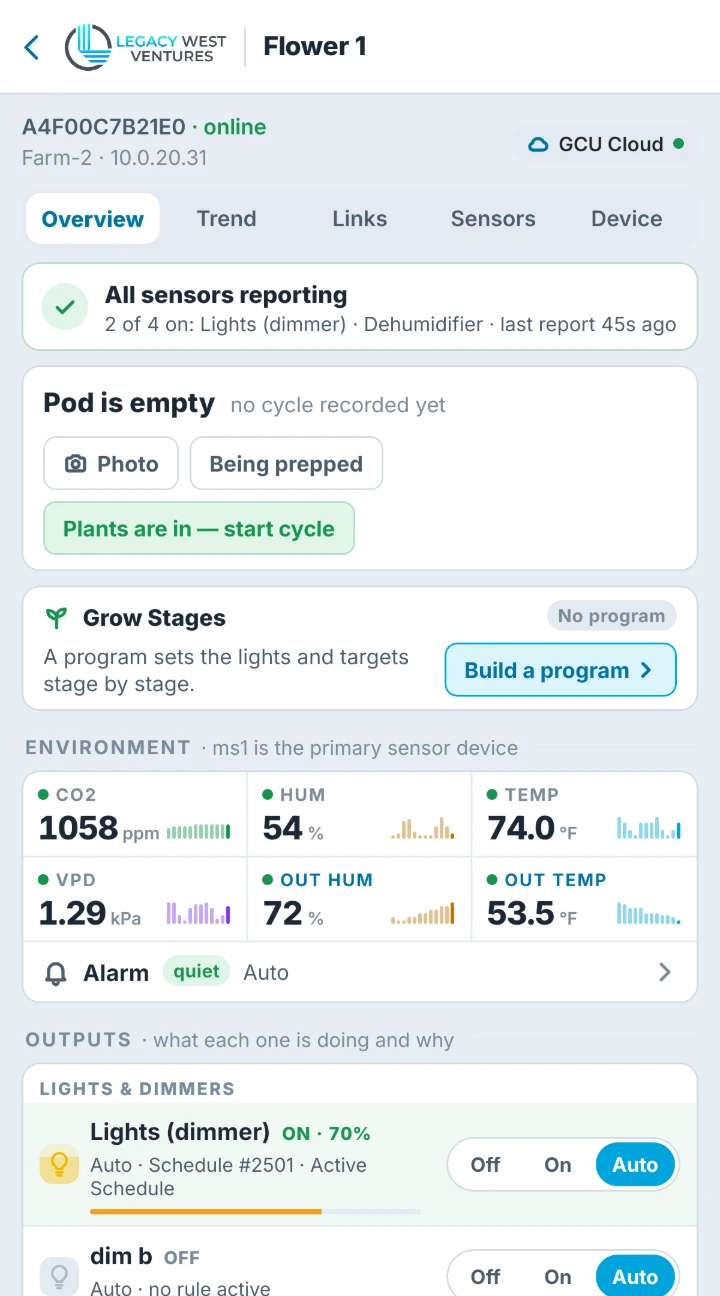
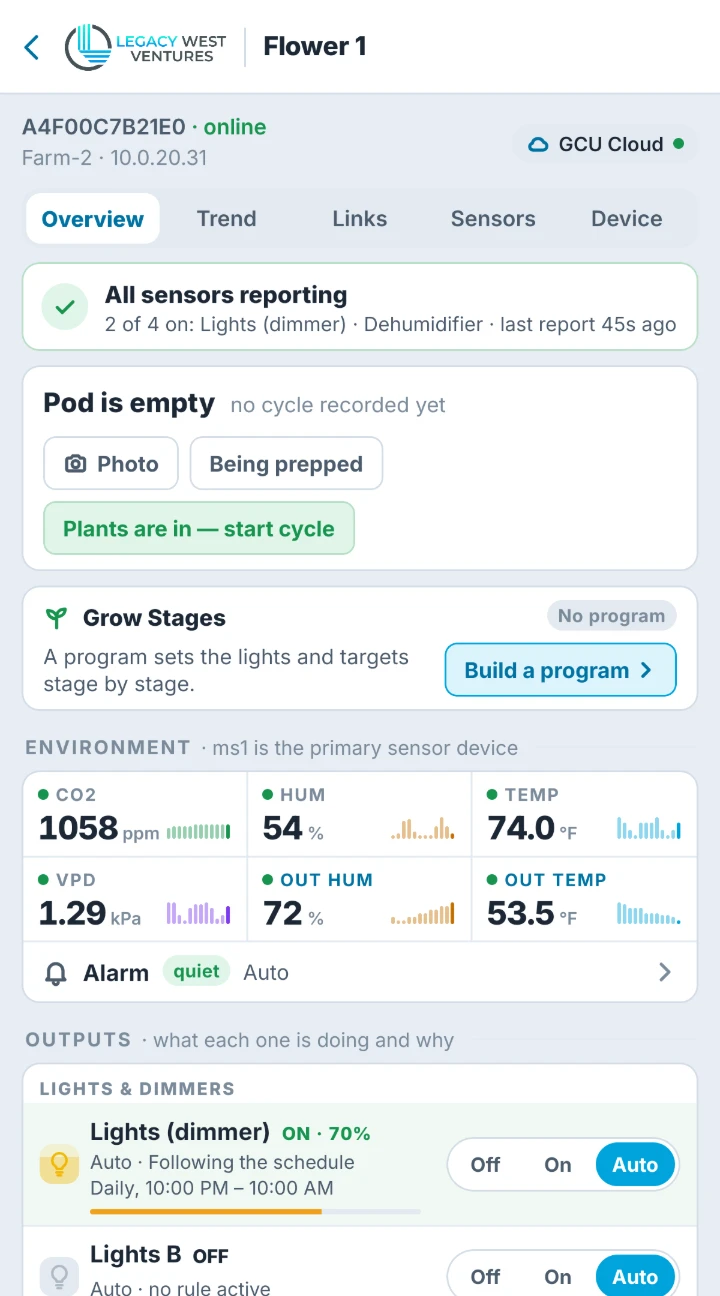
Tell the story: GCU pages lead with why the platform is different; output names in the app screens
GCU Cloud: tagline, a hero that says what it does, a six-point 'why' section and sharper captions.
Platform and home pages: 'run themselves, and show their work'. App screens: friendly output names
(Lights B, Fans, Flasher, Siren), no raw variable codes or rule ids.

Changed region(s): [[0.1222, 0.8951, 0.5194, 0.9259], [0.1222, 0.9568, 0.3056, 0.9877]]

diff --git a/solutions/gcu-cloud.html b/solutions/gcu-cloud.html
@@ -2,14 +2,14 @@
 <html lang="en">
 <head>
 <meta charset="utf-8">
-<title>GCU Cloud — Grow Room Monitoring and Control from Anywhere — Legacy West Ventures</title>
+<title>GCU Cloud — Every Grow Room, Every Reading, Every Reason — Legacy West Ventures</title>
 <meta name="viewport" content="width=device-width, initial-scale=1">
-<meta name="description" content="GCU Cloud connects to every Greenhouse Control Unit so you can watch, adjust and keep records for your grow rooms from a phone or computer. Grow programs, email alerts, crop photos and nightly AI Insights, hosted by Legacy West Ventures.">
+<meta name="description" content="GCU Cloud shows every grow room you run, live: the air, the equipment and the reason behind every change. Control from your phone with confirmation from the room, grow programs, crop records, alerts and nightly AI Insights. Built and hosted by Legacy West Ventures.">
 <link rel="canonical" href="https://www.legacywestventures.com/solutions/gcu-cloud.html">
 <meta property="og:type" content="website">
 <meta property="og:site_name" content="Legacy West Ventures">
-<meta property="og:title" content="GCU Cloud — Grow Room Monitoring and Control from Anywhere">
-<meta property="og:description" content="Watch, adjust and keep records for your grow rooms from a phone or computer. Grow programs, email alerts, crop photos and nightly AI Insights.">
+<meta property="og:title" content="GCU Cloud — Every Grow Room, Every Reading, Every Reason">
+<meta property="og:description" content="See every grow room you run, live, with the reason behind every change. Control from your phone, confirmed by the room. Grow programs, crop records and nightly AI Insights.">
 <meta property="og:url" content="https://www.legacywestventures.com/solutions/gcu-cloud.html">
 <meta property="og:image" content="https://www.legacywestventures.com/images/og-image.png">
 <meta name="twitter:card" content="summary_large_image">
@@ -25,6 +25,9 @@
   .hero-solution { background: linear-gradient(100deg, rgba(12,74,110,.95) 0%, rgba(3,105,161,.8) 55%, rgba(12,74,110,.55) 100%), url(../images/grow/lettuce-led-bar.jpg) center/cover no-repeat; color: #fff; padding: 88px 0; }
   .hero-solution .kicker { color: #bae6fd; }
   .hero-solution h1 { font-size: 48px; line-height: 1.1; margin: 0 0 20px; }
+  .hero-solution .tagline { font-size: 26px; font-weight: 800; line-height: 1.25; color: #bae6fd; margin: 0 0 18px; }
+  .hero-solution .tagline span { white-space: nowrap; }
+  @media(max-width:620px) { .hero-solution h1 { font-size: 40px; } .hero-solution .tagline { font-size: 24px; } }
   .hero-solution .lead { font-size: 20px; color: rgba(255,255,255,0.88); max-width: 640px; }
   .hero-solution .btn.ghost { color: #fff; border-color: rgba(255,255,255,0.4); }
   .hero-grid { display: grid; grid-template-columns: 1.2fr 1fr; gap: 48px; align-items: center; }
@@ -64,6 +67,11 @@
   .feature-card .icon { font-size: 24px; }
   .feature-card ul { margin: 0; padding-left: 18px; color: var(--muted); font-size: 14px; }
   .feature-card ul li { margin-bottom: 6px; }
+  .feature-card p { margin: 0; color: var(--muted); font-size: 15px; }
+  .why-lead { max-width: 720px; font-size: 18px; }
+  .why-grid { display: grid; grid-template-columns: repeat(3, 1fr); gap: 20px; margin-top: 32px; }
+  @media(max-width:900px) { .why-grid { grid-template-columns: repeat(2, 1fr); } }
+  @media(max-width:620px) { .why-grid { grid-template-columns: 1fr; } }
   .callout { background: #fffbeb; border: 1px solid #fcd34d; border-radius: 16px; padding: 24px 28px; margin-top: 32px; }
   .callout h3 { margin: 0 0 8px; color: #92400e; }
   .callout p { margin: 0; color: #78350f; }
@@ -105,8 +113,9 @@
       <div>
         <span class="kicker">Cloud Solution · GCU Platform</span>
         <h1>GCU Cloud</h1>
-        <p class="lead">Where you watch, adjust and keep records for your grow rooms. Your GCU runs each room on site. GCU Cloud connects to every one of them so you and your team can see what is happening, change how it runs and hear about problems, from a phone or a computer, wherever you are.</p>
-        <p style="margin-top:28px"><a class="btn" href="../contact.html" style="background:#fff;color:#0c4a6e">Get Started</a> <a class="btn ghost" href="https://gcu.legacywestventures.com" rel="noopener">Sign in</a></p>
+        <p class="tagline"><span>Every room.</span> <span>Every reading.</span> <span>Every reason.</span></p>
+        <p class="lead">See every grow room you run, live, from wherever you are: what the air is doing, what each light, fan and dehumidifier is doing, and why. Change anything from your phone and the controller in the room confirms it within seconds. And if the internet drops, your rooms keep running, because the control never left the room.</p>
+        <p style="margin-top:28px"><a class="btn" href="../contact.html" style="background:#fff;color:#0c4a6e">See It on Your Rooms</a> <a class="btn ghost" href="https://gcu.legacywestventures.com" rel="noopener">Sign in</a></p>
         <div class="stats-row">
           <div class="stat"><div class="stat-number">0</div><div class="stat-label">Servers to run on site</div></div>
           <div class="stat"><div class="stat-number">5 yr</div><div class="stat-label">History kept for every room</div></div>
@@ -124,26 +133,60 @@
     <div class="container">
       <span class="kicker">On Your Phone</span>
       <h2 class="h2">The Whole Room in Your Pocket</h2>
-      <p class="muted" style="max-width:720px">These are real screens from a GCU Cloud site, taken on a phone running the LWV-GCU app. The same views open in any web browser.</p>
+      <p class="muted" style="max-width:720px">No mock-ups here. These are real screens from a working GCU Cloud site, taken on a phone running the LWV-GCU app. The same views open in any web browser.</p>
       <div class="app-gallery">
         <figure>
           <div class="device"><img src="../images/app/room.webp" width="720" height="1296" loading="lazy" alt="A room's overview in the LWV-GCU app: sensors reporting, live CO2, humidity, temperature and VPD with sparklines, the alarm state, and each light and relay with what is driving it"></div>
-          <figcaption><h3>Each Room in Detail</h3><p>Live readings with their trend, the alarm, and every output with what is driving it right now.</p></figcaption>
+          <figcaption><h3>Each Room, Explained</h3><p>Live readings with their trend, the alarm, and every output with what it is doing and what told it to.</p></figcaption>
         </figure>
         <figure>
           <div class="device"><img src="../images/app/sensors.webp" width="720" height="1296" loading="lazy" alt="The Sensors view: CO2, humidity, temperature and VPD over the last four hours, each with its range, every read good, and a Calibrate link"></div>
-          <figcaption><h3>Sensors You Can Trust</h3><p>Every reading with its last four hours, its range and whether each read was good, with calibration one tap away.</p></figcaption>
+          <figcaption><h3>Sensors You Can Trust</h3><p>Every reading with its last four hours, its range and whether each read was good. Calibration is one tap away.</p></figcaption>
         </figure>
         <figure>
           <div class="device"><img src="../images/app/trend.webp" width="720" height="1296" loading="lazy" alt="The Trend view: CO2, temperature and humidity over 24 hours on one chart, with the lights shaded where they were on"></div>
-          <figcaption><h3>Cause and Effect</h3><p>Sensors and equipment on one chart, so you can see the lights come on and the room respond.</p></figcaption>
+          <figcaption><h3>Cause and Effect</h3><p>Sensors and equipment on one chart. Watch the lights come on and see exactly how the room answers.</p></figcaption>
         </figure>
         <figure>
           <div class="device"><img src="../images/app/rules.webp" width="720" height="1296" loading="lazy" alt="The Links view for the lights: today's schedule as a timeline, the rule that is active now, its ramp times and when it changes next"></div>
-          <figcaption><h3>Rules You Can Read</h3><p>Each output shows the rule in charge, today's timeline, its sunrise ramp and when it changes next.</p></figcaption>
+          <figcaption><h3>Rules You Can Read</h3><p>No codes to decipher. Each output shows the rule in charge, today's timeline, its sunrise ramp and when it changes next.</p></figcaption>
         </figure>
       </div>
-      <p class="app-note">The LWV-GCU app is coming soon. Site, room and network names in these screens are changed.</p>
+      <p class="app-note">The LWV-GCU app is coming soon. Site, room, output and network names in these screens are changed.</p>
+    </div>
+  </section>
+
+  <section class="solution-section">
+    <div class="container">
+      <span class="kicker">Why GCU Cloud</span>
+      <h2 class="h2">We Set Out to Build the Best Grow Control System There Is</h2>
+      <p class="muted why-lead">We think we did. Here is what we built into it, and why each part matters when a crop is on the line.</p>
+      <div class="why-grid">
+        <div class="feature-card">
+          <h3>The room never waits for the cloud</h3>
+          <p>Every control decision is made by the GCU in the room. The schedules, the sensor rules and the grow program live on the controller, so a dropped connection changes nothing for your plants.</p>
+        </div>
+        <div class="feature-card">
+          <h3>Every change is confirmed</h3>
+          <p>Tap Off, On or Auto, or set a light level, and the GCU answers back when it has done it. You are never left wondering whether a command arrived.</p>
+        </div>
+        <div class="feature-card">
+          <h3>It tells you why</h3>
+          <p>Every output shows what is in charge of it right now: a schedule, a sensor rule, a manual hold or the switch on the panel. Every room carries a plain-language status with the reason behind it.</p>
+        </div>
+        <div class="feature-card">
+          <h3>Readings you can trust</h3>
+          <p>Each sensor read is marked good or not. A probe that goes silent is called out, never left showing its last number, and where a backup sensor is fitted it sits beside the primary so drift stands out.</p>
+        </div>
+        <div class="feature-card">
+          <h3>The crop, not just the climate</h3>
+          <p>Grow programs step through the stages on their own. Plantings, harvests and photos are recorded against each room, and AI reviews every room every night, with the evidence behind each finding.</p>
+        </div>
+        <div class="feature-card">
+          <h3>One team behind all of it</h3>
+          <p>We design the controller, write its firmware, run the cloud and build the app. When you need help, you reach the people who made it.</p>
+        </div>
+      </div>
     </div>
   </section>
 
@@ -178,7 +221,7 @@
         </div>
       </div>
       <div class="callout">
-        <h3>Your rooms keep running even if the internet goes down.</h3>
+        <h3>The internet can go down. Your rooms will not.</h3>
         <p>Every automation decision is made by the GCU on site. GCU Cloud sets up the rules and shows you what is happening. If the connection drops, the GCU carries on with the same schedules, rules and grow program, and the cloud picks up again when it reconnects.</p>
       </div>
     </div>
@@ -301,9 +344,9 @@
 
   <section class="cta-section">
     <div class="container">
-      <h2 class="h2">Put Your Rooms in GCU Cloud</h2>
-      <p>Already have GCUs? We connect them for you. Starting fresh? We will quote the controllers, sensors and connectivity to go with it.</p>
-      <a class="btn" href="../contact.html" style="background:#fff;color:#0c4a6e">Get Started</a>
+      <h2 class="h2">See Your Own Rooms This Way</h2>
+      <p>Already have GCUs? We connect them for you. Starting fresh? Tell us about your rooms and we will quote the controllers, sensors and connectivity to go with it.</p>
+      <a class="btn" href="../contact.html" style="background:#fff;color:#0c4a6e">Talk to Us</a>
     </div>
   </section>
 </main>

diff --git a/solutions/gcu-platform.html b/solutions/gcu-platform.html
@@ -2,14 +2,14 @@
 <html lang="en">
 <head>
 <meta charset="utf-8">
-<title>GCU Platform — Grow Room Automation by Legacy West Ventures</title>
+<title>GCU Platform — Grow Rooms That Run Themselves and Show Their Work — Legacy West Ventures</title>
 <meta name="viewport" content="width=device-width, initial-scale=1">
-<meta name="description" content="The GCU platform for indoor agriculture: a Greenhouse Control Unit that runs each room on its own, with GCU Manager on site or GCU Cloud online to watch, adjust and keep records.">
+<meta name="description" content="The GCU platform for indoor agriculture: a controller in every room that runs lights, climate, CO2 and irrigation on its own, and software that shows your team everything it does and why. On site with GCU Manager or online with GCU Cloud.">
 <link rel="canonical" href="https://www.legacywestventures.com/solutions/gcu-platform.html">
 <meta property="og:type" content="website">
 <meta property="og:site_name" content="Legacy West Ventures">
-<meta property="og:title" content="GCU Platform — Grow Room Automation by Legacy West Ventures">
-<meta property="og:description" content="A Greenhouse Control Unit that runs each room on its own, with GCU Manager on site or GCU Cloud online to watch, adjust and keep records.">
+<meta property="og:title" content="GCU Platform — Grow Rooms That Run Themselves and Show Their Work">
+<meta property="og:description" content="A controller in every room that runs the grow on its own, and software that shows your team everything it does and why. GCU Manager on site or GCU Cloud online.">
 <meta property="og:url" content="https://www.legacywestventures.com/solutions/gcu-platform.html">
 <meta property="og:image" content="https://www.legacywestventures.com/images/og-image.png">
 <meta name="twitter:card" content="summary_large_image">
@@ -25,6 +25,8 @@
   .hero-solution { background: linear-gradient(100deg, rgba(15,23,42,.94) 0%, rgba(19,78,74,.78) 60%, rgba(15,23,42,.5) 100%), url(../images/grow/vertical-farm-led.jpg) center/cover no-repeat; color: #fff; padding: 96px 0; }
   .hero-solution .kicker { color: #5eead4; }
   .hero-solution h1 { font-size: 48px; line-height: 1.1; margin: 0 0 20px; }
+  .hero-solution .tagline { font-size: 28px; font-weight: 800; line-height: 1.2; color: #5eead4; margin: 0 0 18px; }
+  @media(max-width:620px) { .hero-solution .tagline { font-size: 23px; } }
   .hero-solution .lead { font-size: 20px; color: rgba(255,255,255,0.85); max-width: 680px; }
   .hero-solution .btn.ghost { color: #fff; border-color: rgba(255,255,255,0.4); }
   .solution-section { padding: 64px 0; }
@@ -107,7 +109,8 @@
     <div class="container">
       <span class="kicker">Grow Room Automation</span>
       <h1>The GCU Platform</h1>
-      <p class="lead">A Greenhouse Control Unit in every room that runs lights, climate, CO<sub>2</sub> and irrigation on its own. Then choose how you watch over it: <strong>GCU Manager</strong> on a server at your facility, or <strong>GCU Cloud</strong> from anywhere.</p>
+      <p class="tagline">Grow rooms that run themselves, and show their work.</p>
+      <p class="lead">A Greenhouse Control Unit in every room runs lights, climate, CO<sub>2</sub> and irrigation on its own, whether or not the network is up. Our software shows your team everything it does and why, and keeps the record of every crop. Choose where that software lives: <strong>GCU Manager</strong> on a server at your facility, or <strong>GCU Cloud</strong> from anywhere. We design and build all of it, from the controller to the app.</p>
       <p style="margin-top:28px"><a class="btn" href="./gcu-manager.html">GCU Manager</a> <a class="btn ghost" href="./gcu-cloud.html">GCU Cloud</a> <a class="btn ghost" href="./smart-container.html">AI-Driven Smart Container</a></p>
     </div>
   </section>
@@ -116,7 +119,7 @@
     <div class="container">
       <span class="kicker">Two Ways to Run It</span>
       <h2 class="h2">Same Platform. On Site or in the Cloud.</h2>
-      <p class="muted" style="max-width:720px">Both give your team grow programs, alerts, crop records and AI review. The difference is where the software lives and who looks after it.</p>
+      <p class="muted" style="max-width:720px">You do not give anything up by choosing one over the other. Both give your team grow programs, alerts, crop records and AI review. The difference is where the software lives and who looks after it.</p>
 
       <div class="spotlight">
         <div class="spot manager">
@@ -175,7 +178,7 @@
         <div>
           <span class="kicker">How It Works</span>
           <h2 class="h2">The Room Runs Itself. The Software Watches.</h2>
-          <p class="muted">Every control decision is made by the GCU in the room, not by a server somewhere else. GCU Manager and GCU Cloud configure the rules, record what happens and show it to your team. If the network drops, the room carries on exactly as programmed.</p>
+          <p class="muted">This is the idea the whole platform is built on. Every control decision is made by the GCU in the room, not by a server somewhere else. GCU Manager and GCU Cloud configure the rules, record what happens and show it to your team. If the network drops, the room carries on exactly as programmed.</p>
           <ul class="capability-list">
             <li><span class="check">✓</span> Schedules with sunrise and sunset ramps for lights</li>
             <li><span class="check">✓</span> Sensor rules that hold temperature, humidity, CO<sub>2</sub> and VPD in range</li>

diff --git a/index.html b/index.html
@@ -74,9 +74,9 @@
     <div class="container hero-split">
       <div>
       <span class="kicker">IoT & Automation Solutions</span>
-      <h1>Your Partner for Smart Building & Agriculture Technology</h1>
-      <p class="lead">We deliver comprehensive IoT solutions, custom dashboards, wireless lighting controls, and advanced grow automation systems that optimize operations and drive efficiency.</p>
-      <p><a class="btn" href="./services.html">Explore Services</a> <a class="btn ghost" href="./contact.html">Talk to an expert</a></p>
+      <h1>Automation That Runs Itself, and Shows Its Work</h1>
+      <p class="lead">Legacy West Ventures designs and delivers automation for grow rooms and smart buildings: our own GCU platform for indoor agriculture, plus wireless lighting controls, IoT sensors and managed connectivity. One team, from the first drawing to the support call.</p>
+      <p style="display:flex;flex-wrap:wrap;gap:10px"><a class="btn" href="./solutions/gcu-platform.html">See the GCU Platform</a> <a class="btn ghost" href="./services.html">Explore Services</a> <a class="btn ghost" href="./contact.html">Talk to an expert</a></p>
       </div>
       <div class="hero-photo"><img src="./images/grow/vertical-farm-led.jpg" alt="Vertical farm with leafy greens under LED grow lights"></div>
     </div>
@@ -98,7 +98,7 @@
         <div class="card">
           <span class="badge">Agriculture Tech</span>
           <h3>Grow & Greenhouse Automation</h3>
-          <p class="muted">Our own GCU platform: a controller in every room, with <a href="./solutions/gcu-manager.html">GCU Manager</a> on site or <a href="./solutions/gcu-cloud.html">GCU Cloud</a> online to watch, adjust and keep records.</p>
+          <p class="muted">Our own GCU platform: a controller that runs every room on its own, with <a href="./solutions/gcu-manager.html">GCU Manager</a> on site or <a href="./solutions/gcu-cloud.html">GCU Cloud</a> online to show your team everything it does and why.</p>
         </div>
       </div>
     </div>
@@ -107,8 +107,8 @@
   <section class="section" id="gcu">
     <div class="container">
       <span class="kicker">Our Platform</span>
-      <h2 class="h2">GCU Manager and GCU Cloud</h2>
-      <p class="muted" style="max-width:720px">A Greenhouse Control Unit runs each room on its own. Then choose how your team watches over it: on a server at your facility, or from anywhere in the cloud. Same grow programs, same alerts, same records.</p>
+      <h2 class="h2">Grow Rooms That Run Themselves, and Show Their Work</h2>
+      <p class="muted" style="max-width:720px">The GCU platform is ours from the controller to the app. A Greenhouse Control Unit runs each room on its own, and our software shows your team everything it does and why. Choose where that software lives: <strong>GCU Manager</strong> on a server at your facility, or <strong>GCU Cloud</strong> from anywhere. Same grow programs, same alerts, same records.</p>
       <div class="spotlight">
         <div class="spot manager">
           <span class="kicker">On-Site Solution</span>
